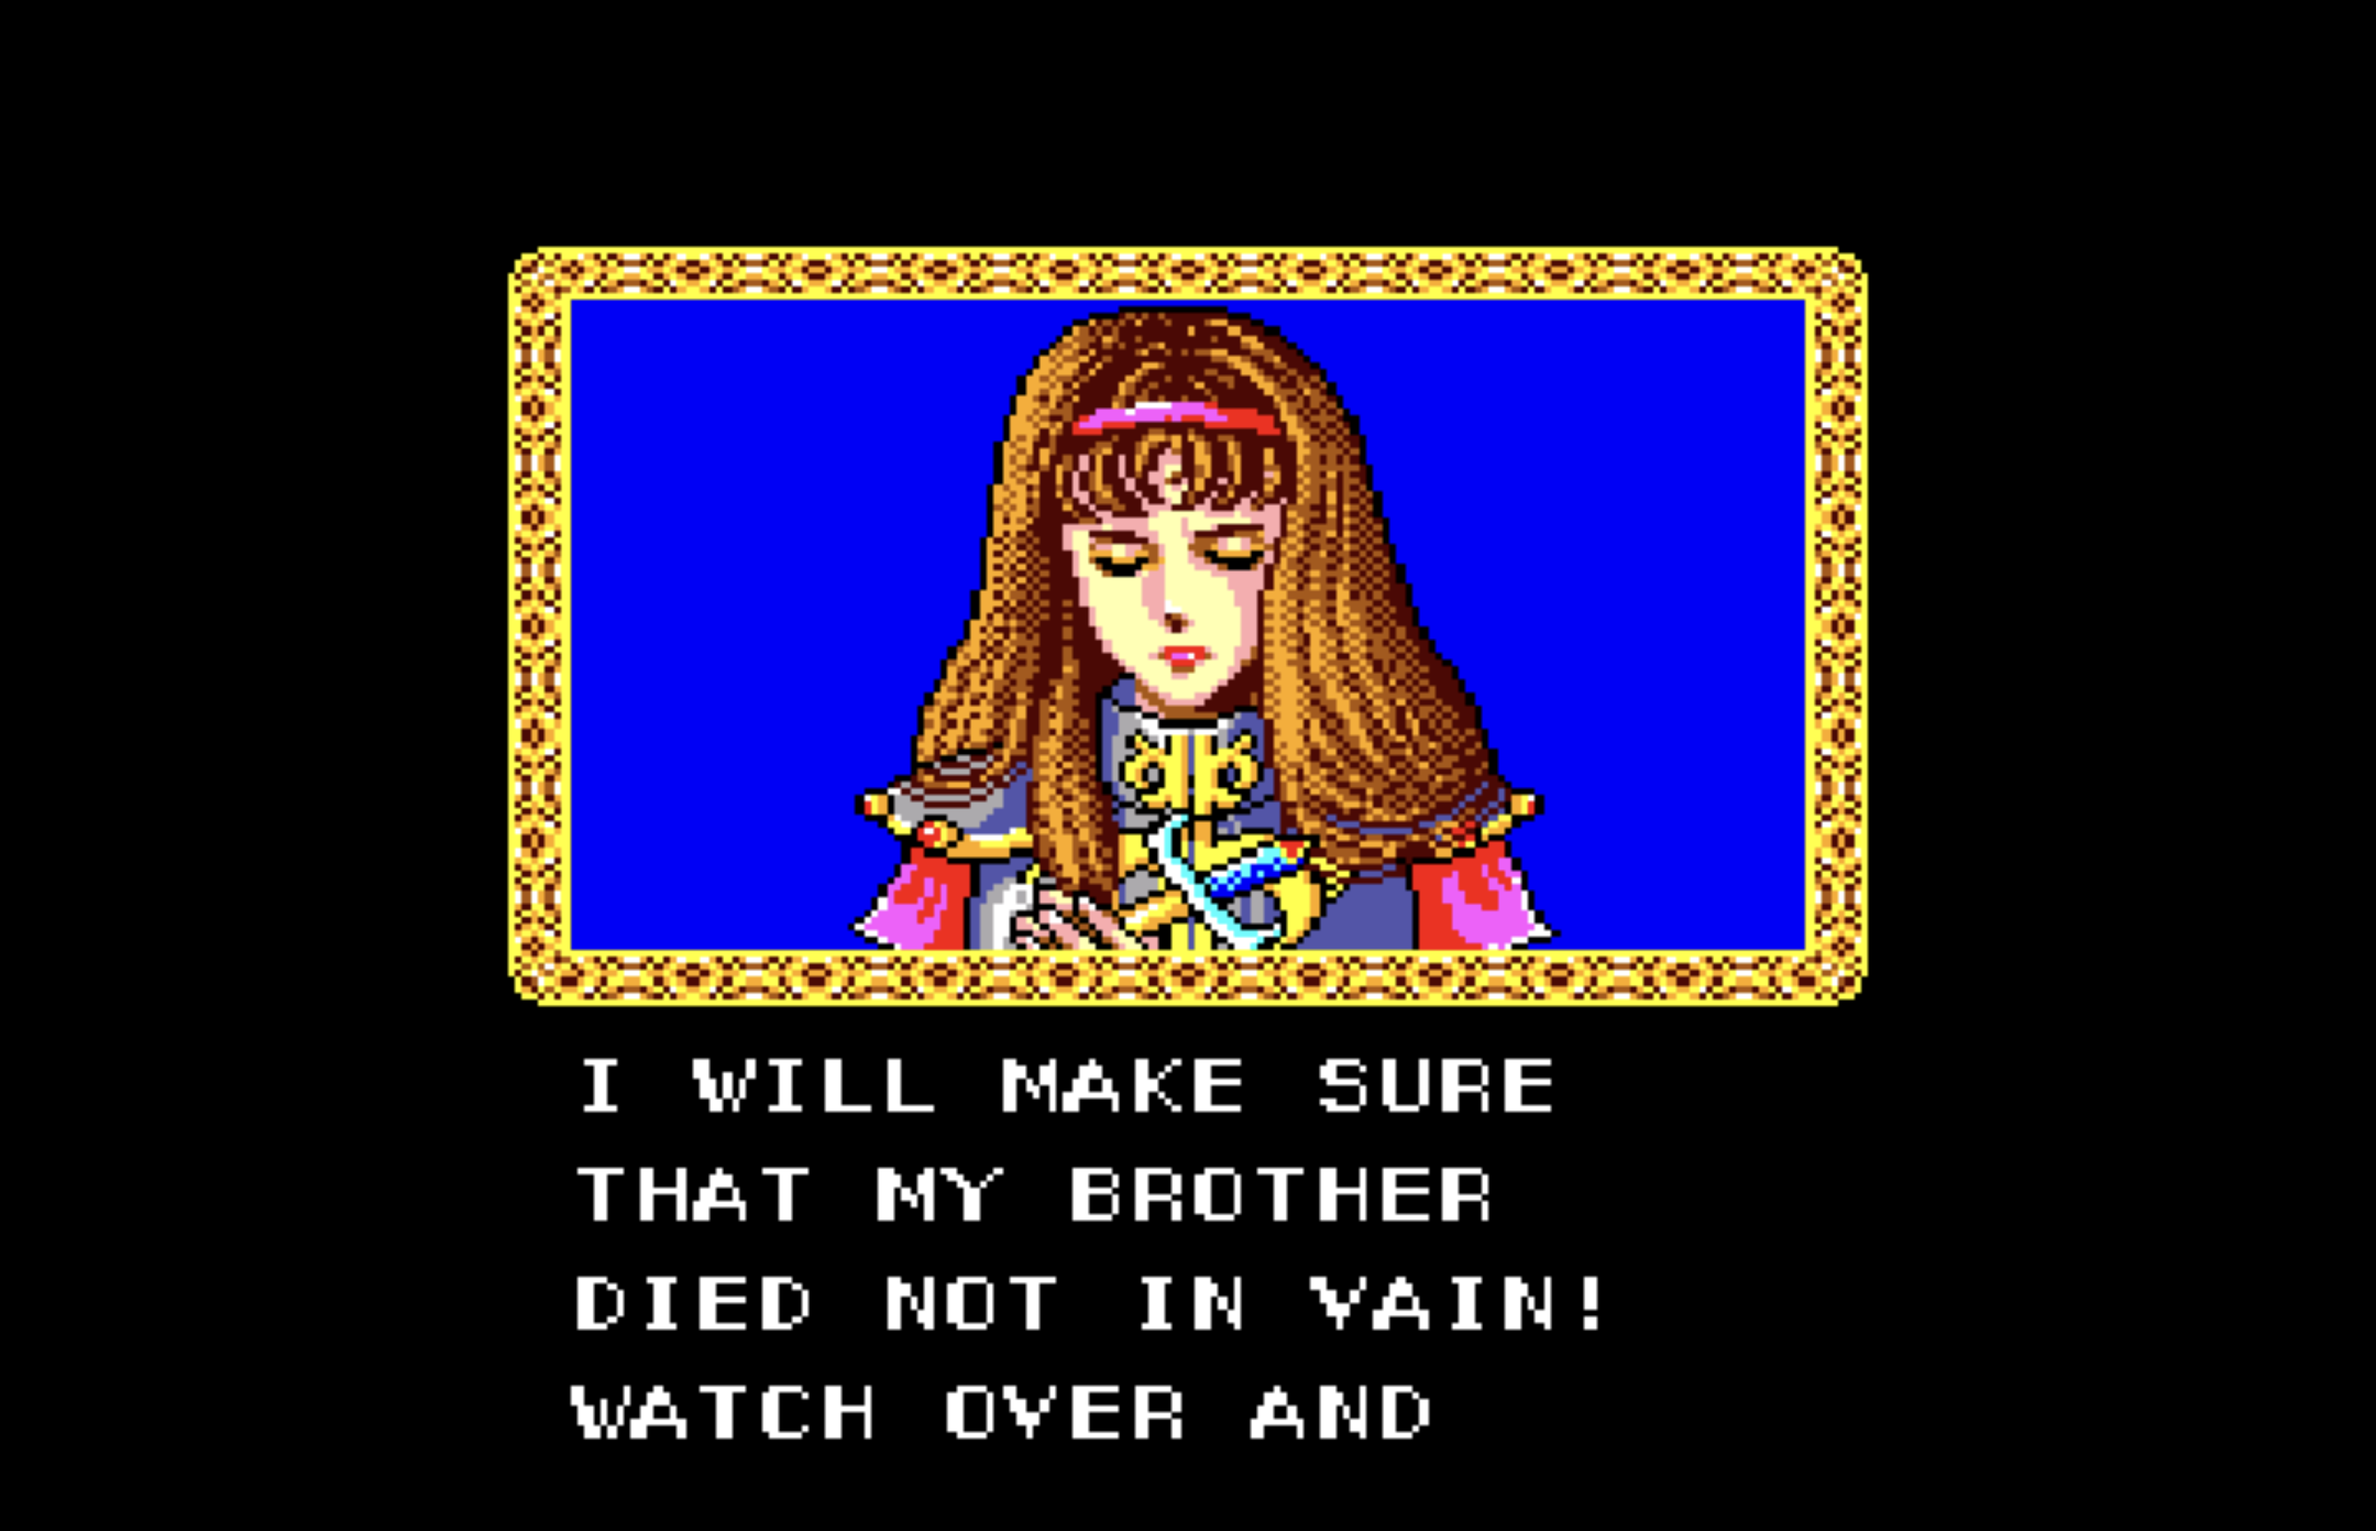
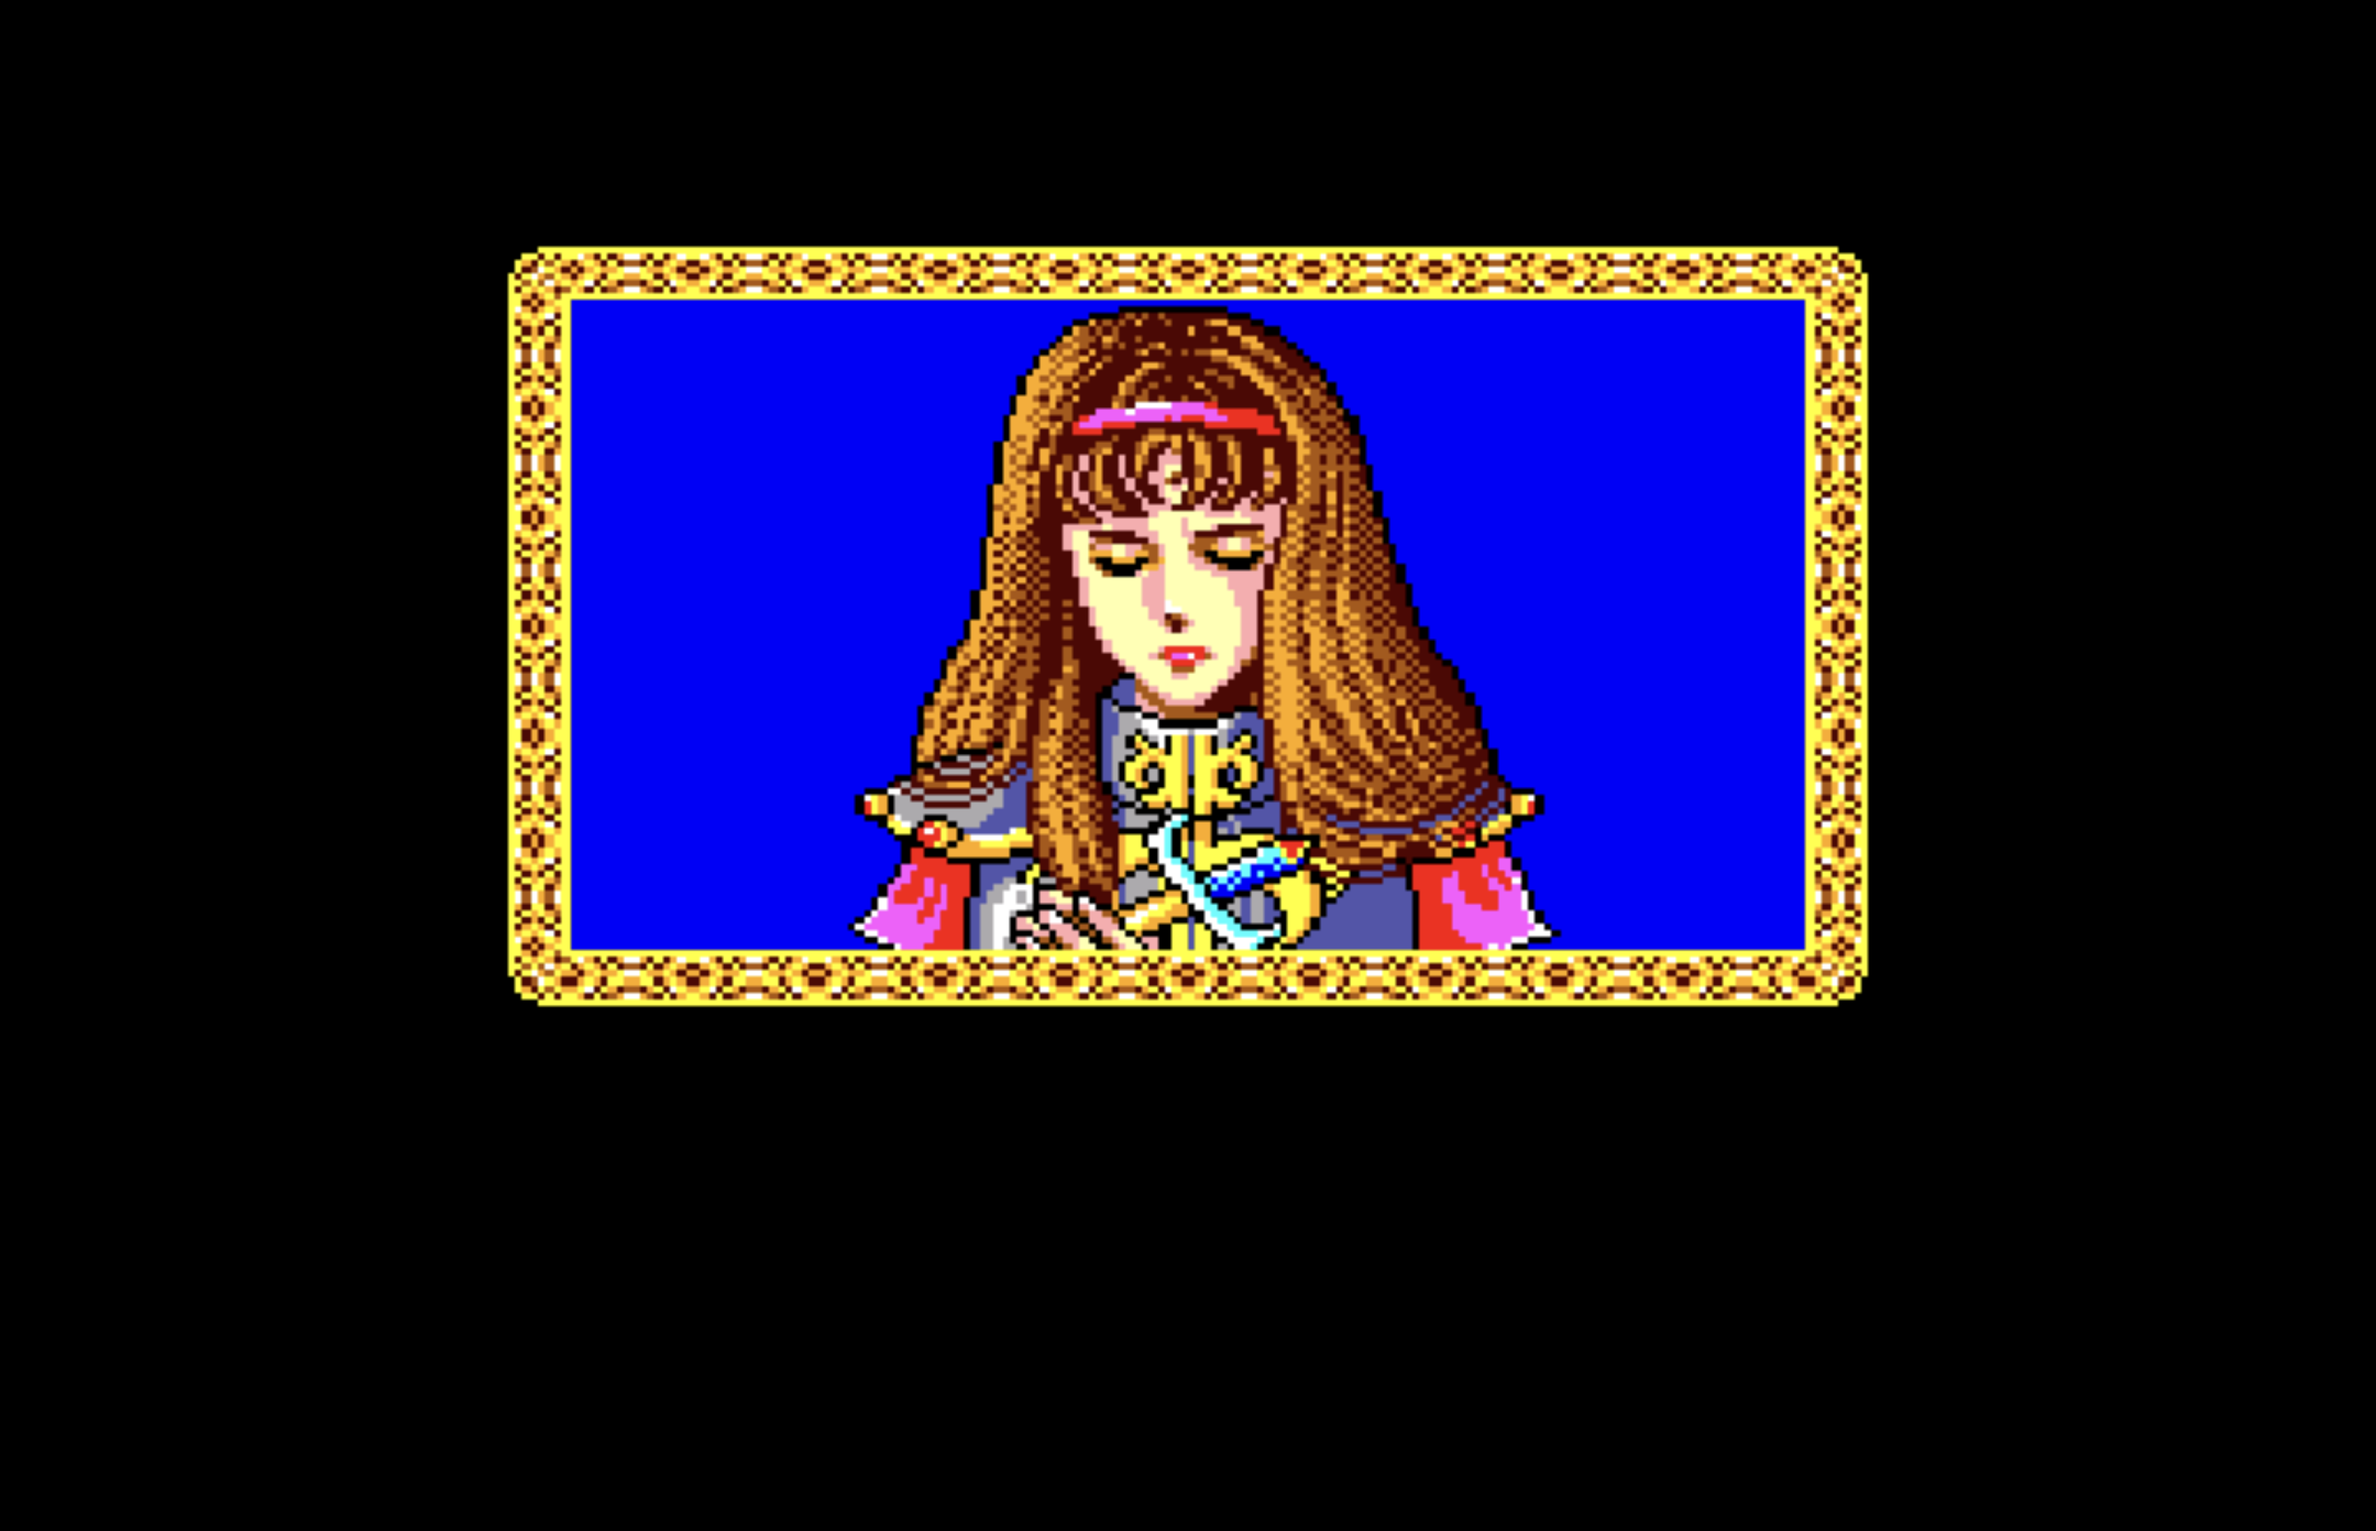
Intro working

diff --git a/src/space/title.js b/src/space/title.js
@@ -76,7 +76,7 @@ class IntroOne {
         this.bg = gevents.level.static_assets.get("intro1");
         this.state = 0; // 0 = scroll, 1 = pause, 2 = done
         this.elapsed = 0;
-        this.pause_time = 10;
+        this.pause_time = 20;
     }
 
     init(gevents){
@@ -91,7 +91,7 @@ class IntroOne {
 
     tick(delta) {
 
-        if (this.gevents.esc || this.gevents.last_key == 'Enter' || this.gevents.last_key == 'Space') {
+        if (this.gevents.esc || this.gevents.last_key == 'Space') {
             this.gevents.last_key = null;
             this.gevents.esc = false;
             this.finished = true;
@@ -128,7 +128,7 @@ class IntroTwo {
         this.gevents = gevents;
         this.bg = gevents.level.static_assets.get("city-bg");
         this.elapsed = 0;
-        this.pause_time = 10;
+        this.pause_time = 30;
     }
 
     init(gevents){
@@ -137,18 +137,22 @@ class IntroTwo {
 
     add_start_scene() {
         this.gevents.level.container.addChild(this.bg);
+        let options = {fontsize: 20};
+        this.gevents.dialog_now("SPACE CENTURY 342,\nCAMINEET ON PALMA", "topleft", null, false, options);
     }
 
     tick(delta) {
-        if (this.gevents.esc || this.gevents.last_key == 'Enter' || this.gevents.last_key == 'Space') {
+        if (this.gevents.esc || this.gevents.last_key == 'Space') {
             this.gevents.last_key = null;
             this.gevents.esc = false;
             this.finished = true;
             return false; // finished
         }
-        this.elapsed += delta;
-        if (this.elapsed > this.pause_time) {
-            return false;
+        if (this.gevents.dialogs_finished()) {
+            this.elapsed += delta;
+            if (this.elapsed > this.pause_time) {
+                return false;
+            }
         }
         if (this.gevents.esc) {
             // 
@@ -160,6 +164,7 @@ class IntroTwo {
     }
 
     remove_scene() {
+        this.gevents.clear_dialogs();
         this.gevents.level.app.stage.removeChild(this.bg);
     }
 };
@@ -170,26 +175,34 @@ class IntroThree {
         this.gevents = gevents;
         this.bg = gevents.level.static_assets.get("intro3");
         this.elapsed = 0;
-        this.pause_time = 10;
+        this.pause_time = 30;
     }
 
     init(gevents){
     }
 
     add_start_scene() {
+        let text1 = "SCUM! DO NO SNIFF AROUND IN LASSIC'S AFFAIRS! LEARN THIS LESSON WELL !";
+        let text2 = "NERO! WHAT HAPPENED! DON'T DIE!";
         this.gevents.level.container.addChild(this.bg);
+        let options = {fontsize: 12};
+        this.gevents.dialog_now(text1, "bottom", null, false, options);
+        this.gevents.dialog_now(text2, "bottom", null, false, options);
     }
 
     tick(delta) {
-        if (this.gevents.esc || this.gevents.last_key == 'Enter' || this.gevents.last_key == 'Space') {
+        if (this.gevents.esc || this.gevents.last_key == 'Space') {
             this.gevents.last_key = null;
             this.gevents.esc = false;
             this.finished = true;
             return false; // finished
         }
-        this.elapsed += delta;
-        if (this.elapsed > this.pause_time) {
-            return false;
+
+        if (this.gevents.dialogs_finished()) {
+            this.elapsed += delta;
+            if (this.elapsed > this.pause_time) {
+                return false;
+            }
         }
         if (this.gevents.esc) {
             // 
@@ -201,6 +214,7 @@ class IntroThree {
     }
 
     remove_scene() {
+        this.gevents.clear_dialogs();
         this.gevents.level.app.stage.removeChild(this.bg);
     }
 };
@@ -211,26 +225,31 @@ class IntroFour {
         this.gevents = gevents;
         this.bg = gevents.level.static_assets.get("intro4");
         this.elapsed = 0;
-        this.pause_time = 10;
+        this.pause_time = 30;
     }
 
     init(gevents){
     }
 
     add_start_scene() {
+        let text1 = "ALICE, LISTEN! LASSIC IS LEADING OUR WORLD TO DESTRUCTION. I TRIED TO DISCOVER HIS PLANS BUT I COULD NOT DO MUCH BY MYSELF. I HAD HEARD OF A MAN WITH GREAT STRENGTH NAMED \"ODIN\". MAYBE THE TWO OF YOU CAN STOP LASSIC. ALIS, IT'S TOO LATE FOR ME. BE STRONG."; 
         this.gevents.level.container.addChild(this.bg);
+        let options = {fontsize: 12};
+        this.gevents.dialog_now(text1, "bottom", null, false, options);
     }
 
     tick(delta) {
-        if (this.gevents.esc || this.gevents.last_key == 'Enter' || this.gevents.last_key == 'Space') {
+        if (this.gevents.esc  || this.gevents.last_key == 'Space') {
             this.gevents.last_key = null;
             this.gevents.esc = false;
             this.finished = true;
             return false; // finished
         }
-        this.elapsed += delta;
-        if (this.elapsed > this.pause_time) {
-            return false;
+        if (this.gevents.dialogs_finished()) {
+            this.elapsed += delta;
+            if (this.elapsed > this.pause_time) {
+                return false;
+            }
         }
         if (this.gevents.esc) {
             // 
@@ -252,26 +271,31 @@ class IntroFive {
         this.gevents = gevents;
         this.bg = gevents.level.static_assets.get("intro5");
         this.elapsed = 0;
-        this.pause_time = 10;
+        this.pause_time = 30;
     }
 
     init(gevents){
     }
 
     add_start_scene() {
+        let text1 = "I WILL MAKE SURE MY BROTHER DIED NOT IN VAIN! WATCH OVER AND PROTECT ME NERO!";
         this.gevents.level.container.addChild(this.bg);
+        let options = {fontsize: 12};
+        this.gevents.dialog_now(text1, "bottom", null, false, options);
     }
 
     tick(delta) {
-        if (this.gevents.esc || this.gevents.last_key == 'Enter' || this.gevents.last_key == 'Space') {
+        if (this.gevents.esc || this.gevents.last_key == 'Space') {
             this.gevents.last_key = null;
             this.gevents.esc = false;
             this.finished = true;
             return false; // finished
         }
-        this.elapsed += delta;
-        if (this.elapsed > this.pause_time) {
-            return false;
+        if (this.gevents.dialogs_finished()) {
+            this.elapsed += delta;
+            if (this.elapsed > this.pause_time) {
+                return false;
+            }
         }
         if (this.gevents.esc) {
             // 

diff --git a/src/space/gameevents.js b/src/space/gameevents.js
@@ -121,11 +121,10 @@ export class StaticBackground {
     }
 
     finalize() {
-        console.log("finalizing");
+        this.gevents.clear_dialogs();
         if (this.gevents.alis != null) {
             console.log("alis");
             if (this.x != null) {
-                console.log("-- x:"+this.x+" y:"+this.y);
                 this.gevents.alis.arrive(this.x, this.y);
             } else {
                 this.gevents.alis.arrive(this.gevents.alis.worldx, this.gevents.alis.worldy);
@@ -282,10 +281,17 @@ export class GameEvents {
         this.input = null;
     }
 
+    //--
+    // Return true if all dialogs are finished
+    //--
+    dialogs_finished(){
+        return this.dqueue.length == 0 || (this.dqueue.length == 1 && this.dqueue[0].finished);
+    }
+
     // --
     // Display a dialog on the screen. Uses a stack to manage multiple dialog requests
     // -- 
-    dialog_now(text = "", place = 'bottom', callme = null, pinned = false) {
+    dialog_now(text = "", place = 'bottom', callme = null, pinned = false, options = null) {
         // if an existing dialog is up and finished, clean it up
         if (this.dqueue.length > 0 && this.dqueue[0].finished) {
             this.dqueue[0].leave();
@@ -295,15 +301,18 @@ export class GameEvents {
         // if an existing dialog is up and pinned, append to that dialog
         if (this.dqueue.length > 0 && this.dqueue[0].pinned) {
             this.dqueue[0].append("\n\n"+text);
+        } else if (this.dqueue.length > 0) {
+            let d = new DIALOG.Dialog(this.level, text, pinned, place, callme, options);
+            this.dqueue.push(d);
         } else {
-            let d = new DIALOG.Dialog(this.level, text, pinned, 42, 4, place, callme);
+            let d = new DIALOG.Dialog(this.level, text, pinned, place, callme, options);
             this.dqueue.push(d);
             d.arrive();
         }
     }
 
     // Stream to a dialog
-    dialog_stream(text = "", place = 'bottom') {
+    dialog_stream(text = "", place = 'bottom', options = null) {
         // if an existing dialog is up and finished, clean it up
         if (this.dqueue.length > 0 && this.dqueue[0].finished) {
             this.dqueue[0].leave();
@@ -314,7 +323,7 @@ export class GameEvents {
         if (this.dqueue.length > 0 && this.dqueue[0].pinned) {
             this.dqueue[0].append(text);
         } else {
-            let d = new DIALOG.Dialog(this.level, text, true, 42, 4, place, null);
+            let d = new DIALOG.Dialog(this.level, text, true, place, null, options);
             this.dqueue.push(d);
             d.arrive();
         }
@@ -367,7 +376,6 @@ export class GameEvents {
         }
 
         this.last_key = event.code;
-        console.log("last_key:"+this.last_key);
 
         if( this.dqueue.length == 0 && this.eventqueue.length == 0){
             return false; // nothing to handle
@@ -383,9 +391,14 @@ export class GameEvents {
                 if (!this.dqueue[0].pinned) {
                     this.dqueue[0].leave();
                     this.dqueue.shift();
+                    if(this.dqueue.length > 0){
+                        this.dqueue[0].arrive();
+                    }   
+                    this.last_key = null; // gobble event 
                 }
             } else {
                 this.dqueue[0].nextpage();
+                this.last_key = null; // gobble event 
             }
         }
         return true;

diff --git a/src/space/dialog.js b/src/space/dialog.js
@@ -8,15 +8,23 @@ const TEXTPAUSE = .25
 const MAXTHEIGHT = DHEIGHT - (2*DPAD)
 const MAXTWIDTH  = DWIDTH  - (2*DPAD)
 
+const DEFAULTFONTSIZE = 10;
+
 export class Dialog{
 
 
     // tw = textwidth
     // pw = page width
-    constructor(level, msg, pinned=false,  tw=42, pw = 4, place = 'bottom', callme = null){
+    constructor(level, msg, pinned=false, place = 'bottom', callme = null,options = null){
         this.level = level
-        this.tw = tw;
-        this.pw = pw;
+
+        this.frontsize = DEFAULTFONTSIZE;
+
+        if(options && Object.hasOwn(options,'fontsize')){
+            console.log("setting fontsize to "+options.fontsize);
+            this.frontsize = options.fontsize;
+        }
+
         this.msg = msg;
         this.finished = false;
         this.startindex = 0;
@@ -26,7 +34,7 @@ export class Dialog{
         this.callme = callme;
         this.style = new PIXI.TextStyle({
             fontFamily: "\"Trebuchet MS\", Helvetica, sans-serif",
-            fontSize: 10,
+            fontSize: this.frontsize,
             fill: "#ffffff",
             fontWeight: "bold",
             wordWrap: true,
@@ -74,11 +82,14 @@ export class Dialog{
         let topleftx = (640/2) - 120;
         let toplefty = 480 - (DHEIGHT + 4);
         if(this.place == 'top'){
-            topleftx = 0;
-            toplefty = 0;
+            toplefty = DPAD;
+        }
+        else if(this.place == 'topleft'){
+            topleftx = DPAD;
+            toplefty = DPAD;
         }
         else if(this.place == 'left'){
-            topleftx = 0;
+            topleftx = DPAD;
             toplefty = (480/2) - (DHEIGHT/2);
         }
         else if(this.place == 'inputbottom'){
@@ -100,7 +111,9 @@ export class Dialog{
         this.level.app.stage.removeChild(this.container);
         this.container.removeChild(this.text);
         this.container.removeChild(this.rrect);
+        if(this.text){
         this.text.destroy();
+        }
         this.rrect.destroy();
         this.container.destroy();
         if(this.callme){

diff --git a/src/space/camineet.js b/src/space/camineet.js
@@ -132,7 +132,8 @@ function init(gameevents) {
     gameevents.register_label_handler("exit1", new GAME.ChangeLevel("Palma-start1", gameevents)); 
 
     // Intro blurb
-    oneShotIntroBlurb(gameevents);
+    // Keeping this around as an example. But it's currently been replaced with a proper intro.
+    // oneShotIntroBlurb(gameevents);
 
 } // init
 
